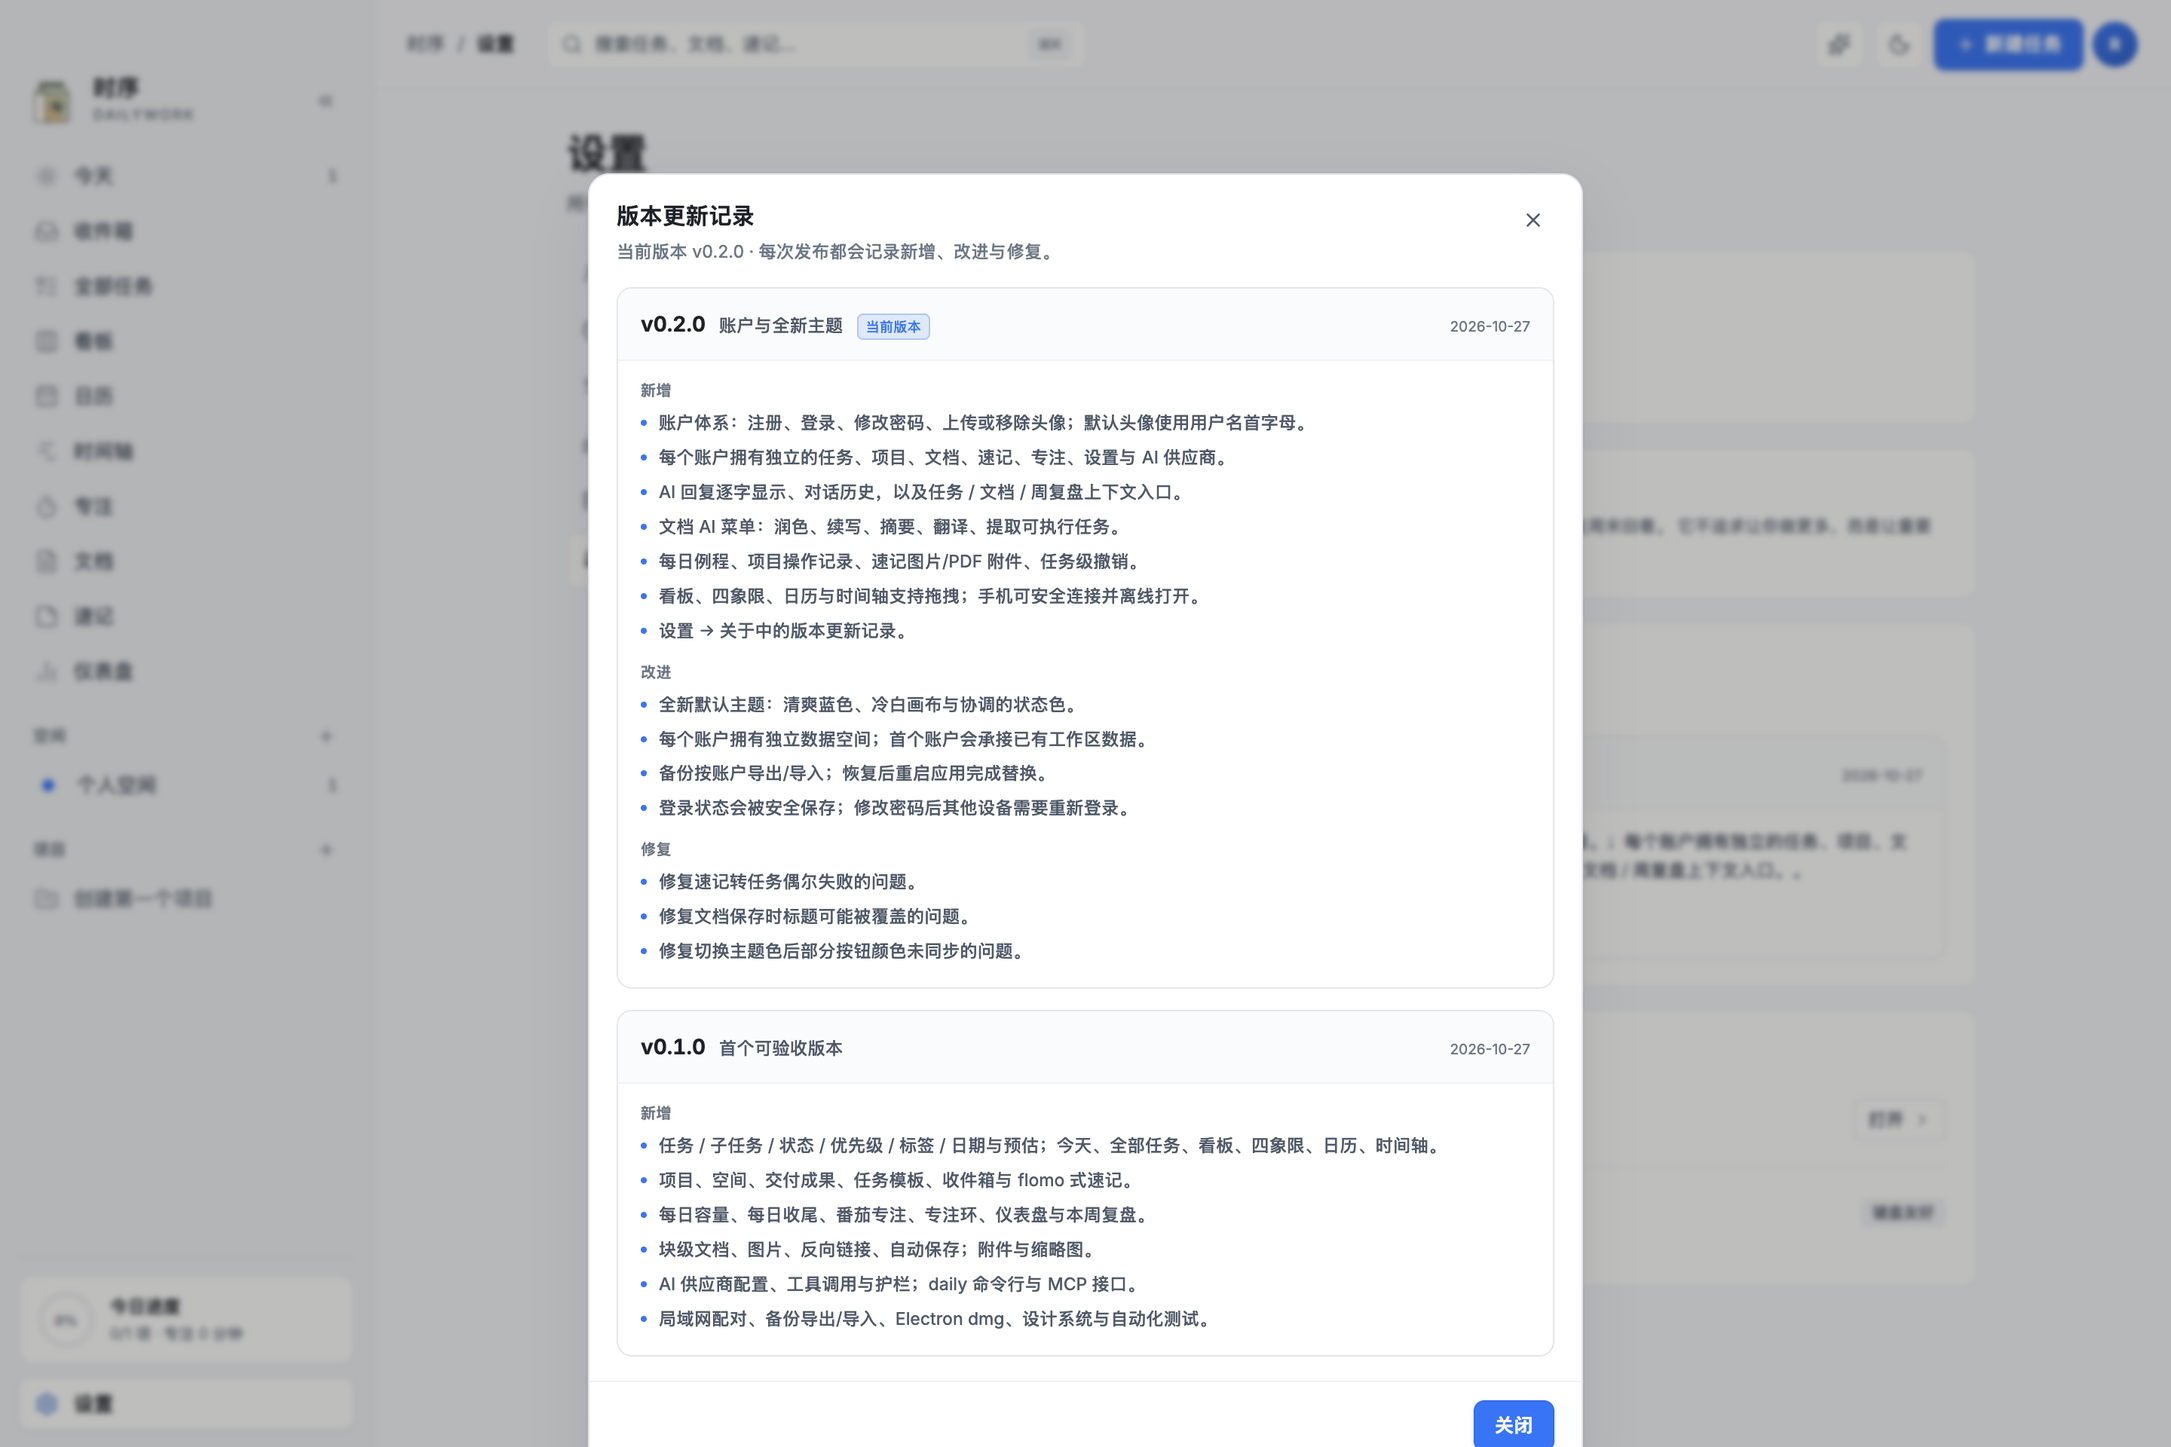
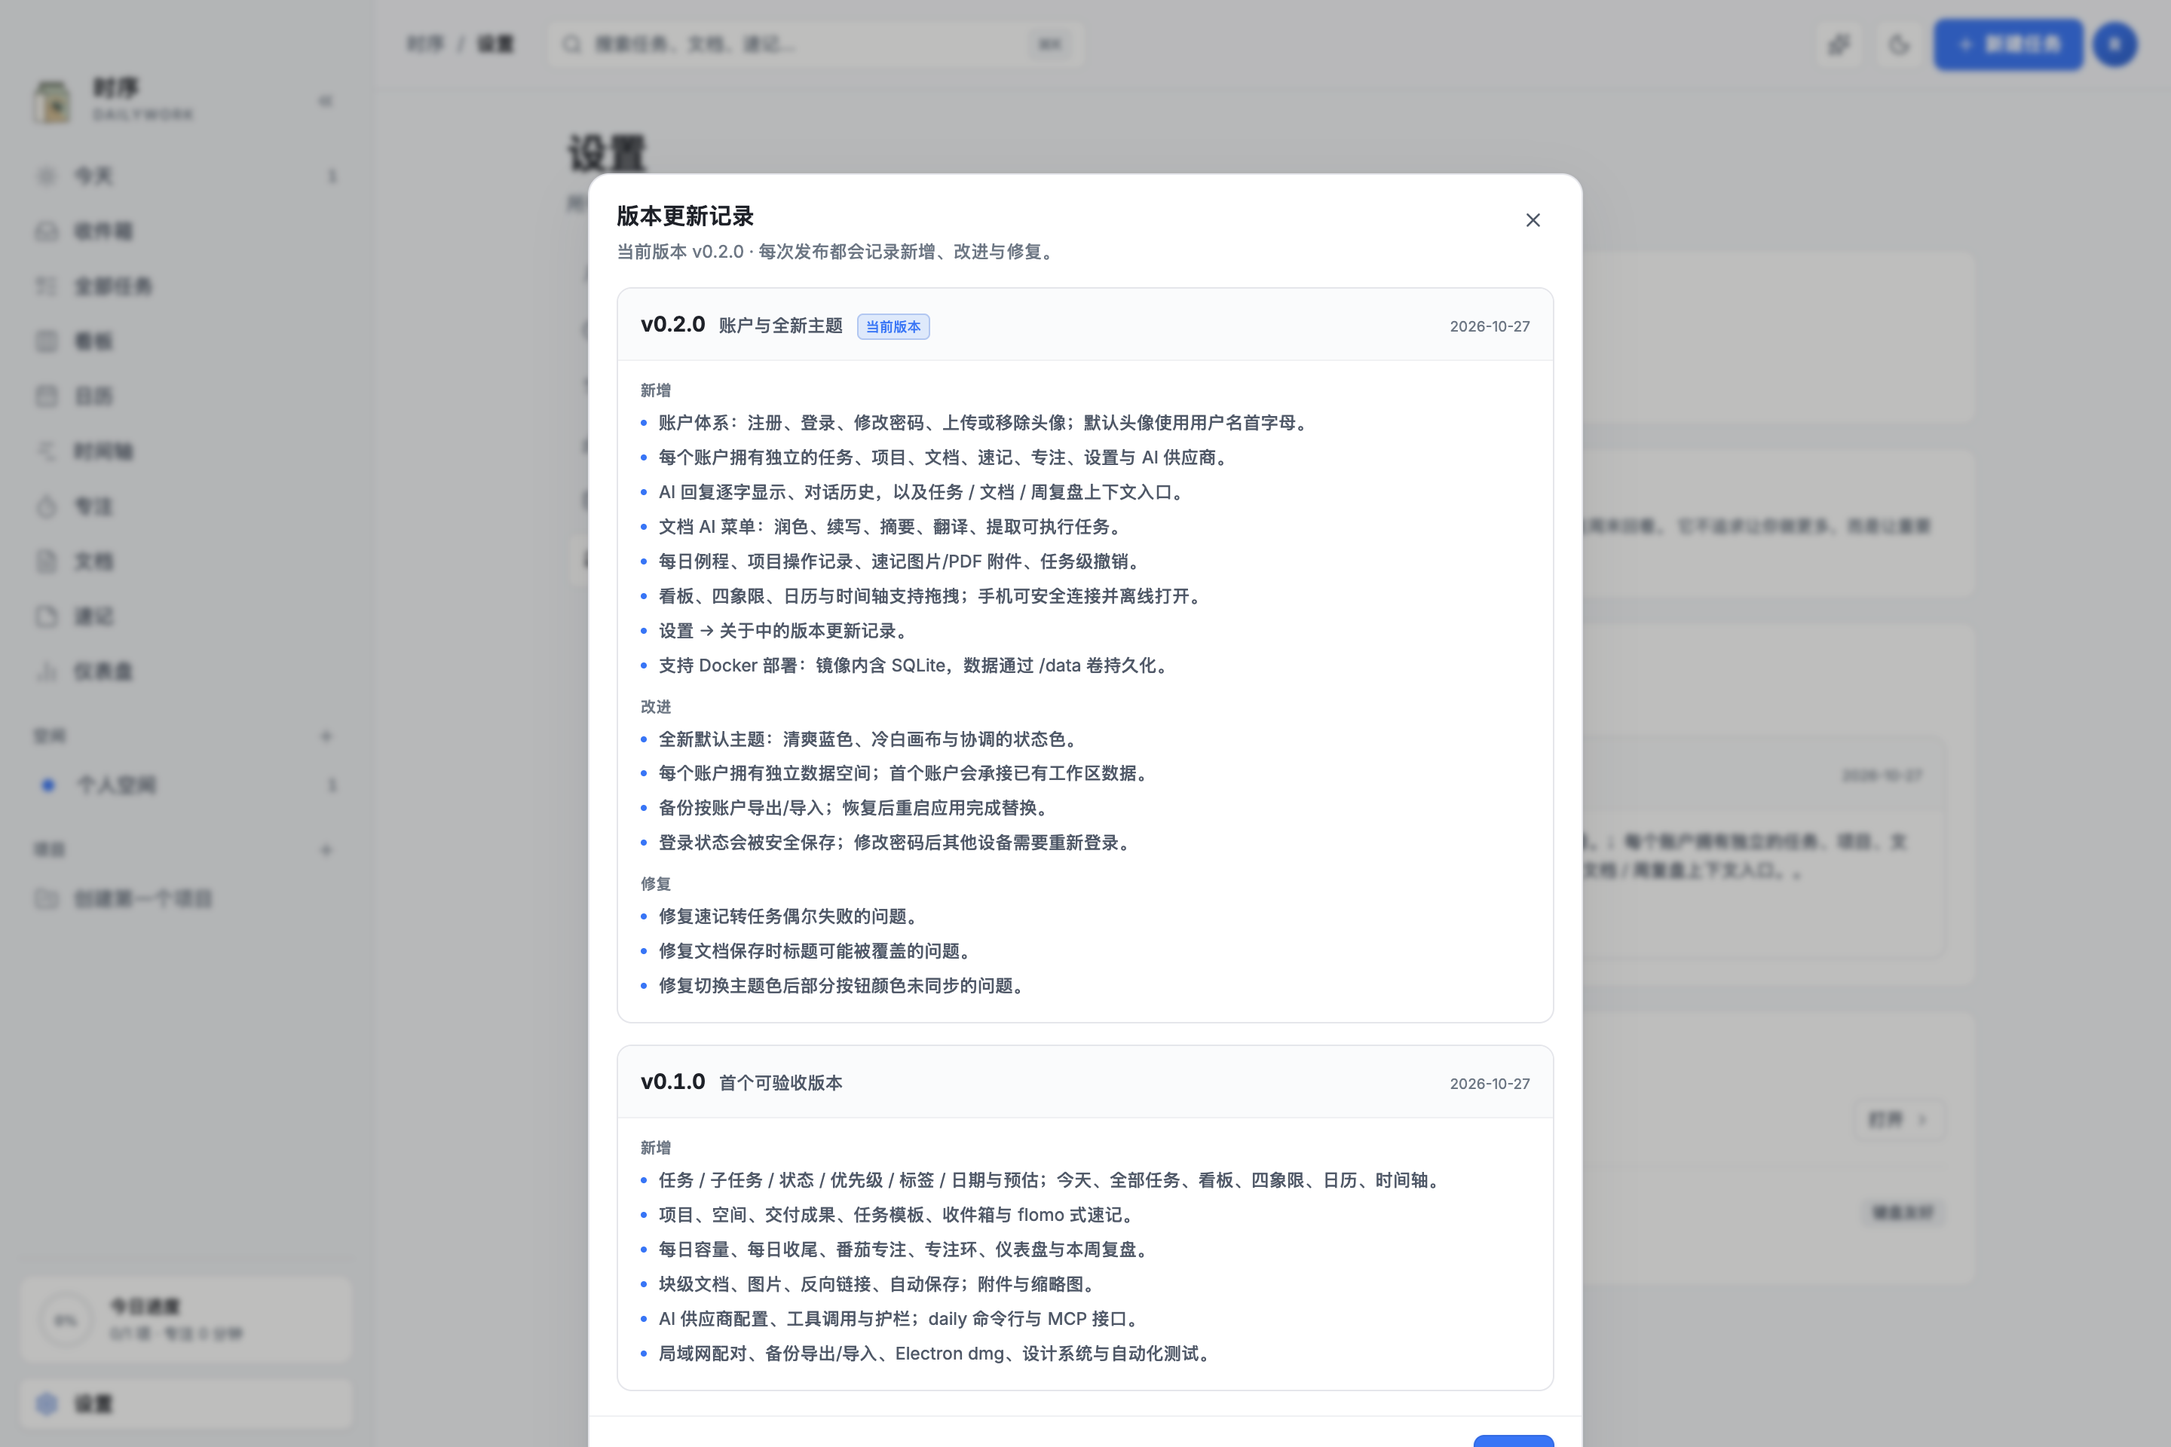
feat(deploy): add Docker image with persistent SQLite volume
- build a multi-stage image with the server bundle and web assets
- persist accounts, workspaces and backups in a /data volume
- add compose defaults, health checks and TLS proxy settings
- document first-account setup, backups, upgrades and single-instance limits
- refresh 0.2.0 screenshots and release notes with the deployment option

diff --git a/apps/web/src/content/releases.ts b/apps/web/src/content/releases.ts
@@ -30,6 +30,7 @@ export const RELEASES: ReleaseNote[] = [
           '每日例程、项目操作记录、速记图片/PDF 附件、任务级撤销。',
           '看板、四象限、日历与时间轴支持拖拽；手机可安全连接并离线打开。',
           '设置 → 关于中的版本更新记录。',
+          '支持 Docker 部署：镜像内含 SQLite，数据通过 /data 卷持久化。',
         ],
       },
       {

diff --git a/CLAUDE.md b/CLAUDE.md
@@ -20,11 +20,18 @@ This file provides guidance to Claude Code (claude.ai/code) when working with co
 
 时序 / Dailywork 是一款 macOS 个人任务与知识工作台。Electron 45 + React 19 + TypeScript 单栈，Hono 服务运行在 Electron utilityProcess，SQLite（`node:sqlite`，WAL）是唯一权威数据源，**不使用任何云同步**。全部界面操作收敛到 `packages/ops` 的操作目录，同时生成 HTTP、CLI、MCP、AI 工具四个表面。
 
+## 分支与协作
+
+- `main` 只保留发布基线，不直接开发；只通过 GitHub Pull Request 合入。
+- `dev` 是日常集成分支；功能从 `dev` 切出 `feat/<scope>`，完成后先合入 `dev`。
+- 发布时从 `dev` 向 `main` 提 PR；合并后在 `main` 打 `vX.Y.Z` tag。
+- 远程仓库：`origin https://github.com/inezhi/dailywork.git`。
+
 ## 常用命令
 
 - `pnpm dev`：并行启动服务（47821）、Vite（5173）与 Electron（dev 模式 Electron 加载 Vite）。
 - `pnpm dev:server` / `pnpm dev:web` / `pnpm dev:desktop`：单独启动。
-- `pnpm test`：Vitest 单元 + 集成测试（54 个，含账户/会话/头像）（`packages/**/*.test.ts`、`apps/server/src/**/*.test.ts`、`apps/cli/src/**/*.test.ts`、`apps/web/src/lib/**/*.test.ts`）。
+- `pnpm test`：Vitest 单元 + 集成测试（58 个，含账户/会话/头像/服务器部署模式）（`packages/**/*.test.ts`、`apps/server/src/**/*.test.ts`、`apps/cli/src/**/*.test.ts`、`apps/web/src/lib/**/*.test.ts`）。
 - `pnpm test:e2e`：Playwright（setup 创建测试账户 → 桌面 Chrome + WebKit iPhone + 账户 UI，共 11 个；webServer 自动启动 `.data-e2e` 服务与 Vite）。
 - 视觉/交互 QA：`node e2e/qa-screenshots.mjs`、`e2e/*-qa.mjs`、`node e2e/packaged-*.mjs`（需已构建 dmg/app）。
 - `pnpm lan:https`：在数据目录生成局域网 HTTPS 证书（自签名，含当前 LAN IP）；重启后 HTTPS 监听固定端口 47822。
@@ -32,6 +39,7 @@ This file provides guidance to Claude Code (claude.ai/code) when working with co
 - `pnpm typecheck`：`tsconfig.node.json`（Node 侧）+ `tsconfig.web.json`（Web 侧），路径别名指向 TS 源码，无需先构建。
 - `pnpm lint` / `pnpm format`：ESLint 9 flat config / Prettier。
 - `pnpm build:desktop`：构建 Web + 服务，然后 electron-builder 打 dmg（ad-hoc 签名）。
+- `docker compose up -d --build`：构建并启动容器（服务 + Web + SQLite，数据卷 `/data`）；详见 `docs/04-process/docker-deployment.md`。
 - `pnpm daily -- task list --json`：CLI 通过 `runtime.json` 发现服务；服务未运行时自动以 headless 方式拉起。
 
 ## 架构要点
@@ -40,7 +48,7 @@ This file provides guidance to Claude Code (claude.ai/code) when working with co
 - **ops 契约**：`packages/ops/src/*-ops.ts` 用 `defineOp` 声明 name / zod input / exposure / annotations / handler。新增能力先加 op，再在 Web 或 CLI 消费；CLI 命令树由 `exposure.cli` 自动生成。
 - **DDD 上下文**：`packages/contexts/<context>/src/index.ts` 是每个上下文的公开应用接口；跨上下文只调用对方的导出函数，不跨包读表。`packages/analytics` 是允许跨表只读的投影层。
 - **数据库**：schema 在 `packages/platform/src/migrations/v1.ts`，启动时自动迁移 + 种子（默认空间、设置）。`packages/platform/src/db.ts` 暴露 `openDatabase`、`transaction`、`recordOp`。
-- **账户**：`<dataDir>/accounts.sqlite` 存 users/sessions（scrypt）；每个账户独立 `<dataDir>/users/<id>/data.sqlite`。`/api/auth/*` 管理注册/登录/改密/头像；未登录 `/api/*` 返回 401（首账户创建前除外）。CLI/MCP 用 runtime Bearer token 映射首个账户；局域网配对建立首个账户会话。Web 入口是 `AuthGate`，默认头像取用户名首字母。所有变更必须在事务内同时写业务表与 `op_log`。
+- **账户**：`<dataDir>/accounts.sqlite` 存 users/sessions（scrypt）；每个账户独立 `<dataDir>/users/<id>/data.sqlite`。`/api/auth/*` 管理注册/登录/改密/头像；未登录 `/api/*` 返回 401（首账户创建前除外）。CLI/MCP 用 runtime Bearer token 映射首个账户；局域网配对建立首个账户会话。Web 入口是 `AuthGate`，默认头像取用户名首字母。所有变更必须在事务内同时写业务表与 `op_log`。**服务器部署模式**由 `DAILYWORK_SERVER_MODE=1` 开启：允许远程登录、跳过 LAN 配对开关、静态首页直接进入登录页；`DAILYWORK_OPEN_REGISTRATION=1` 才允许首个账户之后继续公开注册。`DAILYWORK_SECURE_COOKIES`/`DAILYWORK_TRUST_PROXY` 控制 TLS 代理下的 Secure cookie。
 - **审计与幂等**：每个 command op 带 `opId`；`op_log.op_id` 唯一，重复请求返回已存结果。破坏性 op 在 HTTP 层要求 `confirm: true`。
 - **日期**：业务日期一律是用户所在时区的 `YYYY-MM-DD` 字符串（`packages/platform/src/time.ts`），时间戳是 UTC ISO；不要用 UTC 日期推导「今天」。
 - **图片**：blobs 表按 sha256 去重存 BLOB，attachments 多态关联 task/document/memo；文档正文通过 `attachment://<id>` 引用。

diff --git a/docs/04-process/docker-deployment.md b/docs/04-process/docker-deployment.md
@@ -1,0 +1,135 @@
+# Docker 部署
+
+更新：2026-10-28 · 对应应用版本 0.2.0
+
+## 1. 形态
+
+镜像包含：
+
+- Hono 应用服务（`server.mjs`）
+- 构建后的 Web 静态资源（`/app/web`）
+- 内置 SQLite 引擎（Node `node:sqlite`）
+- 账户库与每账户工作区数据库（运行时创建在 `/data`）
+
+SQLite 随应用运行，不需要单独启动数据库容器。`/data` 使用 Docker volume 持久化；删除容器不会删除数据。
+
+> 当前架构是单实例写模型。不要对同一个 `/data` 启动多个副本；需要横向扩展时应先迁移到支持并发的数据库与服务拆分。
+
+## 2. 启动
+
+```bash
+cp .env.example .env
+docker compose up -d --build
+docker compose ps
+curl http://127.0.0.1:47821/api/health
+```
+
+打开 `http://127.0.0.1:47821`，首次访问会进入注册页。默认只允许创建第一个账户；之后公开注册关闭。
+
+查看日志：
+
+```bash
+docker compose logs -f dailywork
+```
+
+停止：
+
+```bash
+docker compose down
+```
+
+数据在 `dailywork-data` volume 中，`down` 不会删除。只有 `docker compose down -v` 才会删除数据。
+
+## 3. 环境变量
+
+| 变量 | 默认 | 说明 |
+|---|---|---|
+| `DAILYWORK_SERVER_MODE` | `1`（镜像内） | 服务器部署模式；允许远程登录，跳过局域网配对开关 |
+| `DAILYWORK_DATA_DIR` | `/data` | 账户库、工作区库、备份、日志与密钥目录 |
+| `DAILYWORK_HOST` | `0.0.0.0` | 监听地址 |
+| `DAILYWORK_PORT` | `47821` | HTTP 端口 |
+| `DAILYWORK_WEB_DIST` | `/app/web` | Web 构建产物目录 |
+| `DAILYWORK_OPEN_REGISTRATION` | `0` | `0` 只允许创建第一个账户；`1` 允许继续公开注册 |
+| `DAILYWORK_SECURE_COOKIES` | `0` | 反向代理终止 TLS 时设为 `1`，会话 cookie 带 `Secure` |
+| `DAILYWORK_TRUST_PROXY` | `0` | 信任 `X-Forwarded-Proto`；仅在代理可控时开启 |
+
+## 4. 反向代理与 HTTPS
+
+生产环境建议在容器前放 Caddy / Nginx / 云负载均衡，由代理终止 TLS。Caddy 示例：
+
+```caddyfile
+dailywork.example.com {
+  reverse_proxy 127.0.0.1:47821
+}
+```
+
+同时设置：
+
+```bash
+DAILYWORK_SECURE_COOKIES=1
+DAILYWORK_TRUST_PROXY=1
+```
+
+只对可信代理开启 `DAILYWORK_TRUST_PROXY`，否则客户端可以伪造协议头。
+
+首次公开部署前，建议先通过防火墙/VPN 限制访问完成第一个账户注册；确认后再开放。默认配置下，第一个账户创建后远程注册会被拒绝。
+
+## 5. 数据、备份与恢复
+
+数据目录：
+
+```text
+/data/
+  accounts.sqlite
+  users/<userId>/data.sqlite
+  backups/
+  certs/            # 可选，由设置页生成
+  logs/
+  runtime.json
+  server-token
+  secrets.key
+```
+
+备份方式：
+
+1. **应用内**：设置 → 数据与备份 → 立即备份 / 导出 `.dailywork`。账户备份不包含 AI 密钥解密根，恢复后需重填 API Key。
+2. **Volume 级**：停止容器后备份整个 `dailywork-data` volume，适合整机迁移。
+
+恢复时保持应用版本不降级；导入后重启容器：
+
+```bash
+docker compose restart dailywork
+```
+
+## 6. 健康检查与升级
+
+```bash
+docker compose exec dailywork node -e "fetch('http://127.0.0.1:47821/api/health').then(r=>r.json()).then(console.log)"
+```
+
+升级：
+
+```bash
+git pull
+docker compose build --pull
+docker compose up -d
+```
+
+升级前先导出 `.dailywork` 或备份 volume。应用启动时会自动执行数据库迁移并生成当日快照。
+
+## 7. 构建与推送镜像
+
+```bash
+docker build -t dailywork:0.2.0 .
+docker tag dailywork:0.2.0 registry.example.com/dailywork:0.2.0
+docker push registry.example.com/dailywork:0.2.0
+```
+
+当前 `docker-compose.yml` 使用本地构建；接入镜像仓库后把 `build` 改为 `image` 即可。
+
+## 8. 已知边界
+
+- 单实例 SQLite；不支持多副本共享同一数据目录。
+- 账户删除、密码找回尚未提供。
+- AI 仍由用户配置 OpenAI 兼容供应商；镜像不包含模型，也不运行模型。
+- 通知、移动端离线增强等能力仍按 0.2.0 的范围执行。

diff --git a/README.md b/README.md
@@ -47,15 +47,35 @@ pnpm dev:web
 | `pnpm lint` | ESLint |
 | `pnpm daily -- task list` | 通过 CLI 操作服务 |
 
+## Docker 部署
+
+仓库提供 `Dockerfile` 与 `docker-compose.yml`，镜像内含应用服务、Web 静态资源与 SQLite；数据库文件持久化在 `/data` volume 中，不需要单独的数据库容器。
+
+```bash
+cp .env.example .env
+docker compose up -d --build
+```
+
+打开 http://127.0.0.1:47821。首次访问注册第一个账户；默认之后关闭公开注册。反向代理终止 TLS 时设置 `DAILYWORK_SECURE_COOKIES=1` 与 `DAILYWORK_TRUST_PROXY=1`。完整说明见 [Docker 部署](docs/04-process/docker-deployment.md)。
+
+## 分支与协作
+
+- `main` 只保留已发布基线，不直接开发；只通过 GitHub Pull Request 合入。
+- `dev` 是日常集成分支；功能从 `dev` 切出 `feat/<scope>`，完成后先合入 `dev`。
+- 发布时从 `dev` 向 `main` 提 PR，合并后在 `main` 打 `vX.Y.Z` tag。
+- 远程仓库：`origin https://github.com/inezhi/dailywork.git`。
+
 ## 数据在哪
 
 默认目录：`~/Library/Application Support/Dailywork/`
 
-- `data.sqlite`：唯一权威数据（任务、项目、文档正文、图片 BLOB、审计日志）。
+- `accounts.sqlite`：账户、密码哈希、头像与会话。
+- `users/<id>/data.sqlite`：每个账户的权威业务数据（任务、项目、文档正文、图片 BLOB、审计日志）。
+- `data.sqlite`：首个账户创建前的兼容数据库。
 - `backups/`：每日快照与手动备份。
 - `logs/`：结构化运行日志（不含任务正文与密钥）。
 
-账户数据位于 `users/<id>/data.sqlite`（每个账户独立），账户、密码哈希、头像与会话位于 `accounts.sqlite`。数据目录可用环境变量 `DAILYWORK_DATA_DIR` 覆盖；测试使用临时目录。
+数据目录可用环境变量 `DAILYWORK_DATA_DIR` 覆盖；测试使用临时目录。Docker 部署时默认使用 `/data`。
 
 ## 技术架构
 
@@ -95,7 +115,7 @@ design/      品牌标识、架构图、设计稿与参考图
 
 ### 质量
 
-- Vitest：54/54（纯单元 + 集成/路由），覆盖日期、参数解析、Ops 不变量、流式解析、备份、撤销、账户/会话/头像与 AI 护栏。
+- Vitest：58/58（纯单元 + 集成/路由），覆盖日期、参数解析、Ops 不变量、流式解析、备份、撤销、账户/会话/头像、服务器部署模式与 AI 护栏。
 - Playwright：11/11（setup 账户 + 桌面 Chrome + WebKit iPhone 13 + 账户 UI），含注册/默认头像/上传/登录、创建、编辑、完成、速记转任务、文档重载、搜索、主题与移动布局。
 - 打包冒烟：dmg 挂载启动、首启引导、任务持久化、局域网配对、配对 cookie 跨重启、HTTPS 证书、任务撤销。
 

diff --git a/docs/04-process/CHANGELOG.md b/docs/04-process/CHANGELOG.md
@@ -13,7 +13,8 @@ All notable changes to this project are documented here. The same entries are sh
 - **拖拽**：四象限调整优先级与截止；日历与时间轴改期。
 - **局域网**：可选自签名 HTTPS（固定 47822）、PWA 离线壳；配对绑定首个账户。
 - **文档**：AI 选区菜单、图片插入、自动保存。
-- **测试**：Vitest 54 项；Playwright 11 项（账户 setup、Chrome 桌面、WebKit iPhone、账户 UI）。
+- **部署**：Docker 镜像与 compose，镜像内含 SQLite，数据通过 `/data` volume 持久化。
+- **测试**：Vitest 58 项；Playwright 11 项（账户 setup、Chrome 桌面、WebKit iPhone、账户 UI）。
 
 ### Changed
 

diff --git a/docs/04-process/release-checklist.md b/docs/04-process/release-checklist.md
@@ -29,6 +29,7 @@
 - [ ] 设置：主题强调色/中性/密度、AI 供应商测试、数据目录、CLI 示例
 - [ ] 导出 `.dailywork` → 空目录导入 → 重启后数据完整
 - [ ] 局域网：开启后手机配对、创建任务、添加到主屏幕
+- [ ] Docker：`docker compose up -d --build`，首次注册、创建任务、重启容器后数据仍在
 - [ ] CLI：`daily task create` / `list` / `complete` / `mcp serve` tools/list
 - [ ] AI：配置 DeepSeek 测试连通；只读工具自动执行；变更需开关；破坏性需人工
 

diff --git a/docs/README.md b/docs/README.md
@@ -41,6 +41,7 @@
 - [工程流程](04-process/workflow.md)
 - [Definition of Done](04-process/definition-of-done.md)
 - [发布清单](04-process/release-checklist.md)
+- [Docker 部署](04-process/docker-deployment.md)
 - [CHANGELOG](04-process/CHANGELOG.md)
 
 ## 飞书文档映射
